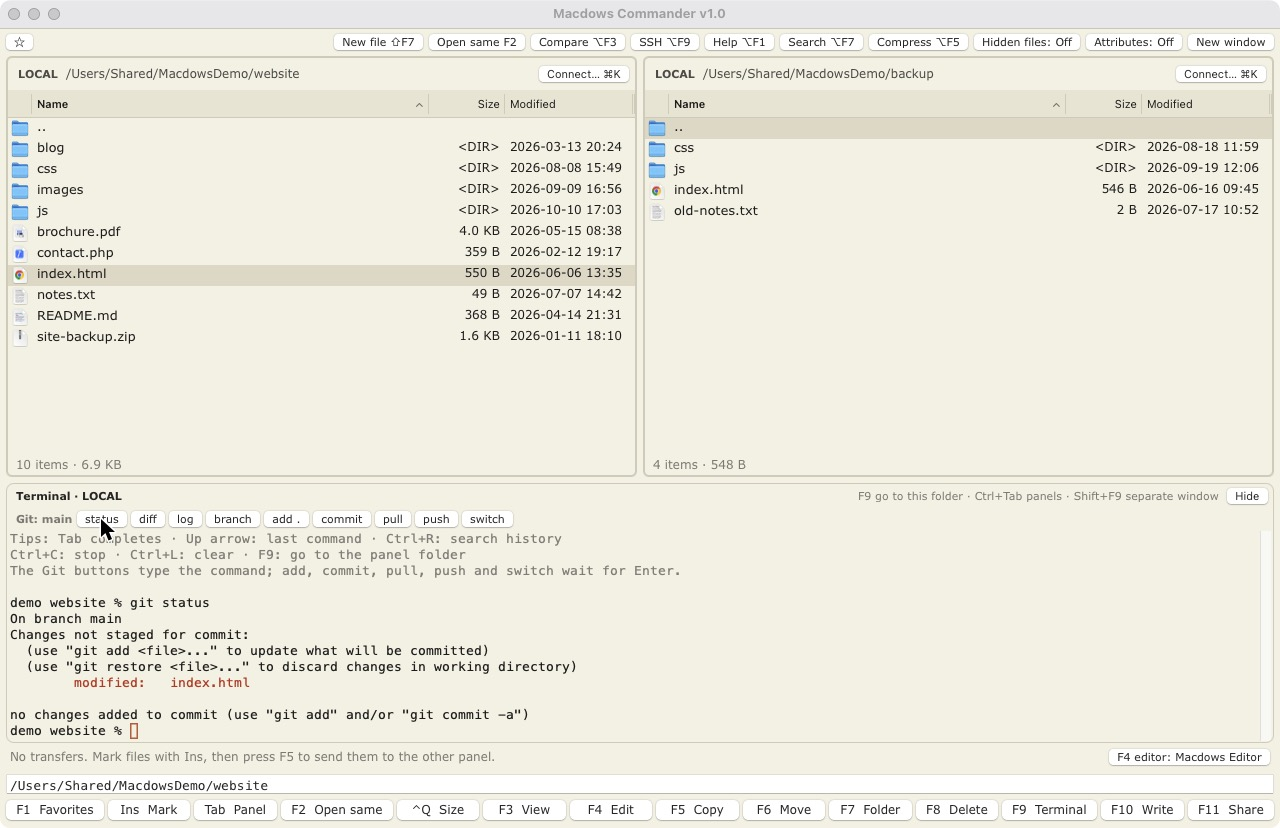
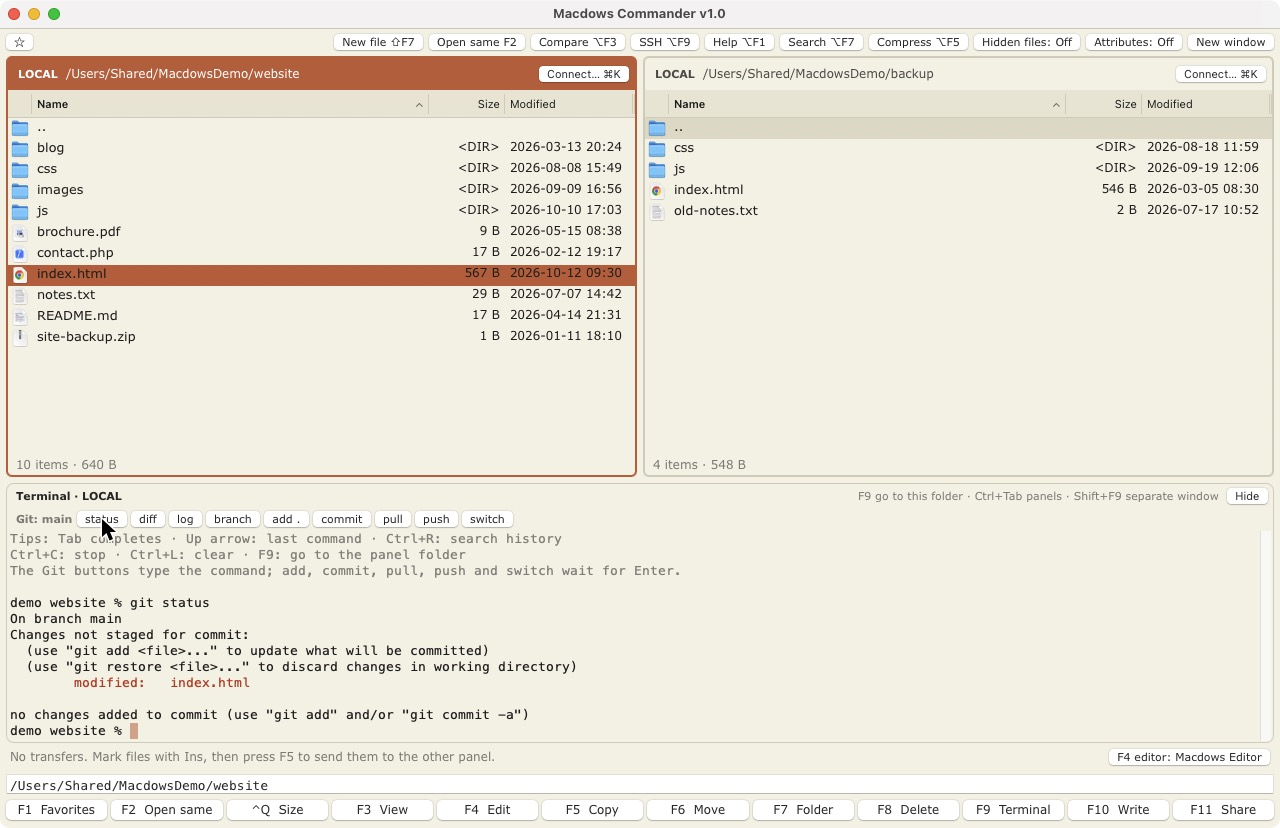
Show size, date and age when comparing, drop two bottom buttons
The compare window shows each file's size and date and says which is
newer. For files it can't lay out, the message names the newer one. Ins and
Tab no longer have buttons on the bottom bar; the keys work as before.

The screenshots are retaken to match.

diff --git a/Sources/MacdowsCommander/CompareWindow.swift b/Sources/MacdowsCommander/CompareWindow.swift
@@ -6,6 +6,31 @@ final class CompareWindowController: NSWindowController, NSWindowDelegate {
     struct Side {
         let title: String
         let text: String
+        var size: Int64 = 0
+        var date: Date? = nil
+    }
+
+    enum Age: Equatable { case newer, older, same, unknown }
+
+    /// How the first date compares with the second. A file without a date can't be called newer.
+    static func age(of first: Date?, against second: Date?) -> Age {
+        guard let first, let second else { return .unknown }
+        // Servers often round to the second or the minute, so a hair's difference isn't an age.
+        if abs(first.timeIntervalSince(second)) < 1 { return .same }
+        return first > second ? .newer : .older
+    }
+
+    /// The line under a file's name: its size, its date and how old it is next to the other file.
+    static func details(of side: Side, against other: Side) -> String {
+        var parts = [Format.size(side.size)]
+        if side.date != nil { parts.append(Format.date(side.date)) }
+        switch age(of: side.date, against: other.date) {
+        case .newer: parts.append(L10n.t("compare.newer"))
+        case .older: parts.append(L10n.t("compare.older"))
+        case .same: parts.append(L10n.t("compare.sameDate"))
+        case .unknown: break
+        }
+        return parts.joined(separator: " · ")
     }
 
     private static var open: [CompareWindowController] = []
@@ -19,6 +44,8 @@ final class CompareWindowController: NSWindowController, NSWindowDelegate {
     private let leftScroll = NSScrollView()
     private let rightScroll = NSScrollView()
     private let summary = NSTextField(labelWithString: "")
+    private(set) lazy var leftDetails = NSTextField(labelWithString: Self.details(of: left, against: right))
+    private(set) lazy var rightDetails = NSTextField(labelWithString: Self.details(of: right, against: left))
     private let ignoreSpace = NSButton(checkboxWithTitle: L10n.t("compare.ignoreSpace"), target: nil, action: nil)
     private var isSyncing = false
     private(set) var rows: [DiffRow] = []
@@ -107,11 +134,21 @@ final class CompareWindowController: NSWindowController, NSWindowDelegate {
         let titles = NSStackView(views: [leftTitle, rightTitle])
         titles.distribution = .fillEqually
         titles.spacing = 2
-        titles.edgeInsets = NSEdgeInsets(top: 2, left: 8, bottom: 4, right: 8)
+        titles.edgeInsets = NSEdgeInsets(top: 2, left: 8, bottom: 0, right: 8)
+        let isNewer = { (side: Side, other: Side) in Self.age(of: side.date, against: other.date) == .newer }
+        for (label, newer) in [(leftDetails, isNewer(left, right)), (rightDetails, isNewer(right, left))] {
+            label.font = AppFont.interface(12, bold: newer)
+            label.textColor = newer ? Theme.success : Theme.secondaryText
+            label.setContentCompressionResistancePriority(.defaultLow, for: .horizontal)
+        }
+        let details = NSStackView(views: [leftDetails, rightDetails])
+        details.distribution = .fillEqually
+        details.spacing = 2
+        details.edgeInsets = NSEdgeInsets(top: 0, left: 8, bottom: 4, right: 8)
         let panes = NSStackView(views: [leftScroll, rightScroll])
         panes.distribution = .fillEqually
         panes.spacing = 2
-        for view in [bar, titles, panes] as [NSView] {
+        for view in [bar, titles, details, panes] as [NSView] {
             view.translatesAutoresizingMaskIntoConstraints = false
             content.addSubview(view)
             view.leadingAnchor.constraint(equalTo: content.leadingAnchor).isActive = true
@@ -120,7 +157,8 @@ final class CompareWindowController: NSWindowController, NSWindowDelegate {
         NSLayoutConstraint.activate([
             bar.topAnchor.constraint(equalTo: content.topAnchor),
             titles.topAnchor.constraint(equalTo: bar.bottomAnchor),
-            panes.topAnchor.constraint(equalTo: titles.bottomAnchor),
+            details.topAnchor.constraint(equalTo: titles.bottomAnchor),
+            panes.topAnchor.constraint(equalTo: details.bottomAnchor),
             panes.bottomAnchor.constraint(equalTo: content.bottomAnchor),
         ])
     }

diff --git a/Sources/MacdowsCommander/MainWindowController.swift b/Sources/MacdowsCommander/MainWindowController.swift
@@ -174,8 +174,6 @@ final class MainWindowController: NSWindowController, NSTextFieldDelegate, NSWin
 
         let definitions: [(String, String, Selector)] = [
             ("F1", "key.favorites", #selector(favoritesClicked)),
-            ("Ins", "key.mark", #selector(markClicked)),
-            ("Tab", "key.panel", #selector(switchPanelClicked)),
             ("F2", "key.same", #selector(mirrorClicked(_:))),
             ("⌃Q", "key.size", #selector(sizeClicked)),
             ("F3", "key.view", #selector(viewClicked)),
@@ -424,8 +422,6 @@ final class MainWindowController: NSWindowController, NSTextFieldDelegate, NSWin
     // MARK: Button and menu actions
 
     @objc private func favoritesClicked() { showFavoritesMenu() }
-    @objc private func markClicked() { active.toggleMark(at: active.table.selectedRow, advance: true) }
-    @objc private func switchPanelClicked() { activate(other) }
     @objc private func sizeClicked() { showInfo() }
     @objc private func viewClicked() { showPreview() }
     @objc private func editClicked() { edit(forceChoice: false) }
@@ -1151,9 +1147,19 @@ final class MainWindowController: NSWindowController, NSTextFieldDelegate, NSWin
                         guard let self else { return }
                         switch result {
                         case .failed(let message): self.showError(message)
-                        case .binary(let message): self.showToast(message)
+                        case .binary(let message):
+                            // Without a window to show them in, the toast says which file is newer.
+                            let (a, b) = (pair.first.0, pair.second.0)
+                            var text = message
+                            switch CompareWindowController.age(of: a.date, against: b.date) {
+                            case .newer: text += " " + L10n.t("compare.newerFile", firstName)
+                            case .older: text += " " + L10n.t("compare.newerFile", secondName)
+                            case .same: text += " " + L10n.t("compare.sameDate") + "."
+                            case .unknown: break
+                            }
+                            self.showToast(text)
                         case .text(let a, let b, let differ):
-                            let window = CompareWindowController(left: .init(title: firstName, text: a), right: .init(title: secondName, text: b), bytesDiffer: differ)
+                            let window = CompareWindowController(left: .init(title: firstName, text: a, size: pair.first.0.size, date: pair.first.0.date), right: .init(title: secondName, text: b, size: pair.second.0.size, date: pair.second.0.date), bytesDiffer: differ)
                             window.showWindow(nil)
                             self.onCompared?(window)
                         }

diff --git a/Tests/MacdowsCommanderTests/MainWindowTests.swift b/Tests/MacdowsCommanderTests/MainWindowTests.swift
@@ -232,6 +232,23 @@ final class MainWindowTests: XCTestCase {
         XCTAssertEqual(try String(contentsOf: path, encoding: .utf8), "dolu")
     }
 
+    func testCompareSaysWhichFileIsNewer() {
+        let old = Date(timeIntervalSince1970: 1000), new = Date(timeIntervalSince1970: 5000)
+        XCTAssertEqual(CompareWindowController.age(of: new, against: old), .newer)
+        XCTAssertEqual(CompareWindowController.age(of: old, against: new), .older)
+        XCTAssertEqual(CompareWindowController.age(of: old, against: old.addingTimeInterval(0.5)), .same)
+        XCTAssertEqual(CompareWindowController.age(of: nil, against: new), .unknown)
+        XCTAssertEqual(CompareWindowController.age(of: new, against: nil), .unknown)
+        let a = CompareWindowController.Side(title: "a", text: "x", size: 2048, date: new)
+        let b = CompareWindowController.Side(title: "b", text: "y", size: 10, date: old)
+        let window = CompareWindowController(left: a, right: b, bytesDiffer: true)
+        XCTAssertTrue(window.leftDetails.stringValue.contains(Format.size(2048)))
+        XCTAssertTrue(window.leftDetails.stringValue.contains(Format.date(new)))
+        XCTAssertTrue(window.leftDetails.stringValue.hasSuffix(L10n.t("compare.newer")))
+        XCTAssertTrue(window.rightDetails.stringValue.hasSuffix(L10n.t("compare.older")))
+        window.close()
+    }
+
     func testCompareTakesTheSameNameInTheOtherPanel() throws {
         let other = root.appendingPathComponent("karsi")
         try FileManager.default.createDirectory(at: other, withIntermediateDirectories: true)

diff --git a/README.tr.md b/README.tr.md
@@ -51,7 +51,7 @@ Resimler gerçek boyutunda açılır. Kırpma, resim ve tuval boyutu, döndürme
 
 ### Dosya karşılaştırma
 
-İki dosya yan yana ve hizalı; değişen, eklenen ve silinen satırlar renkli.
+İki dosya yan yana ve hizalı; değişen, eklenen ve silinen satırlar renkli. Her tarafta boyut ve tarih yazar, hangi dosyanın daha yeni olduğu görünür.
 
 ![Bir dosyanın iki sürümü karşılaştırılıyor](docs/images/compare.jpg)
 

diff --git a/README.md b/README.md
@@ -51,7 +51,7 @@ Pictures open at their real size. Crop, change the image or canvas size, rotate,
 
 ### Compare files
 
-Two files side by side and lined up, with changed, added and removed lines in color.
+Two files side by side and lined up, with changed, added and removed lines in color. Each side shows its size and date, and says which file is newer.
 
 ![Two versions of a file compared](docs/images/compare.jpg)
 
